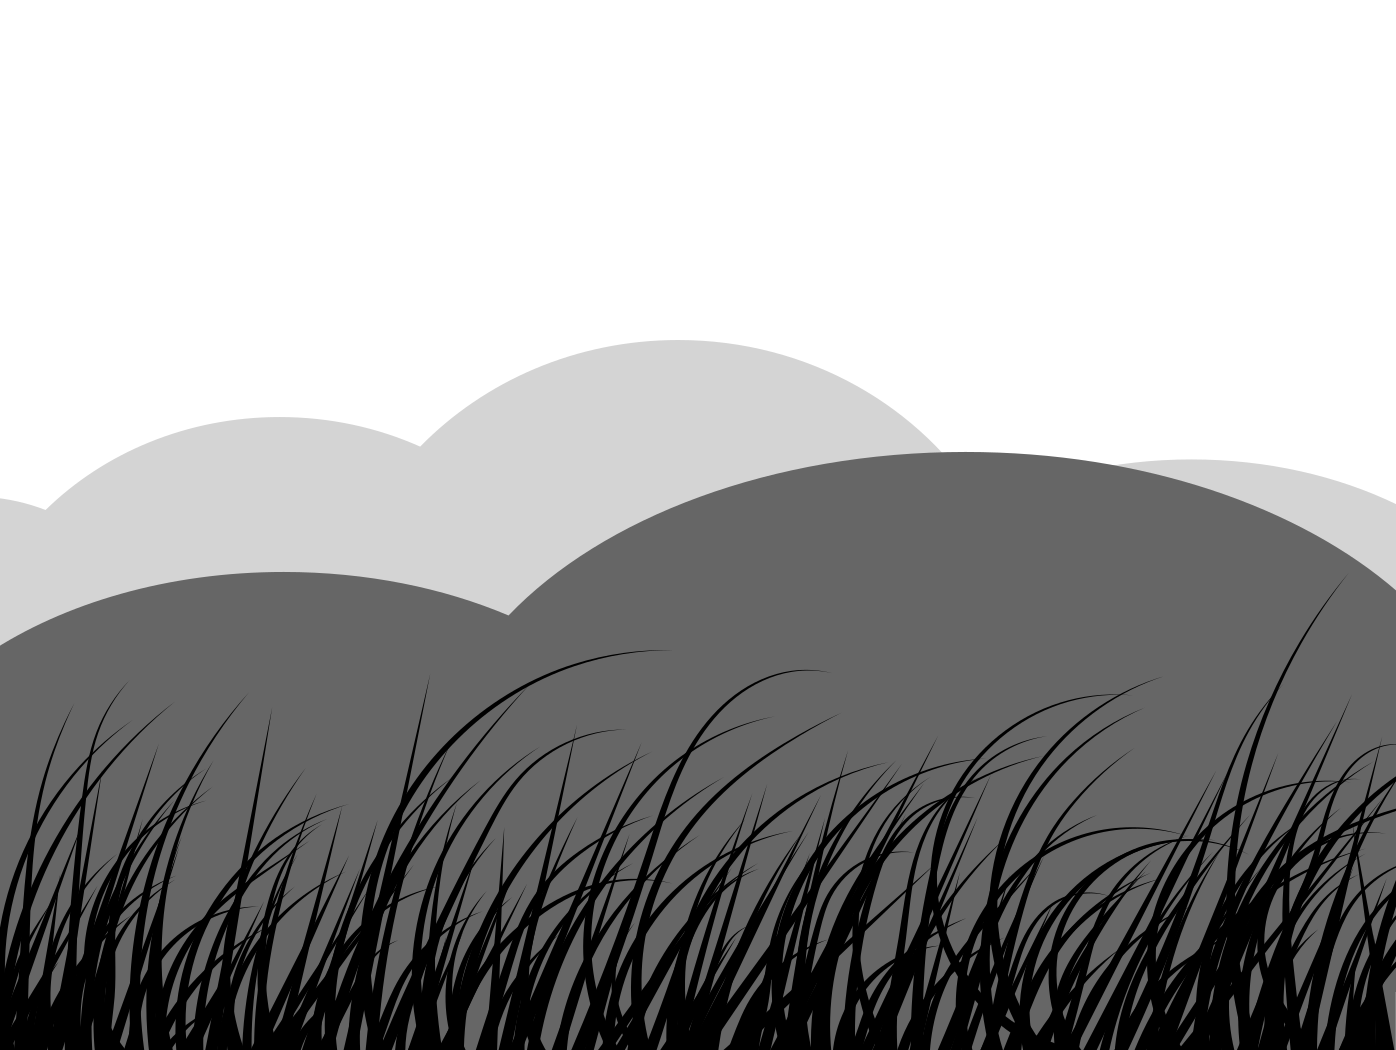
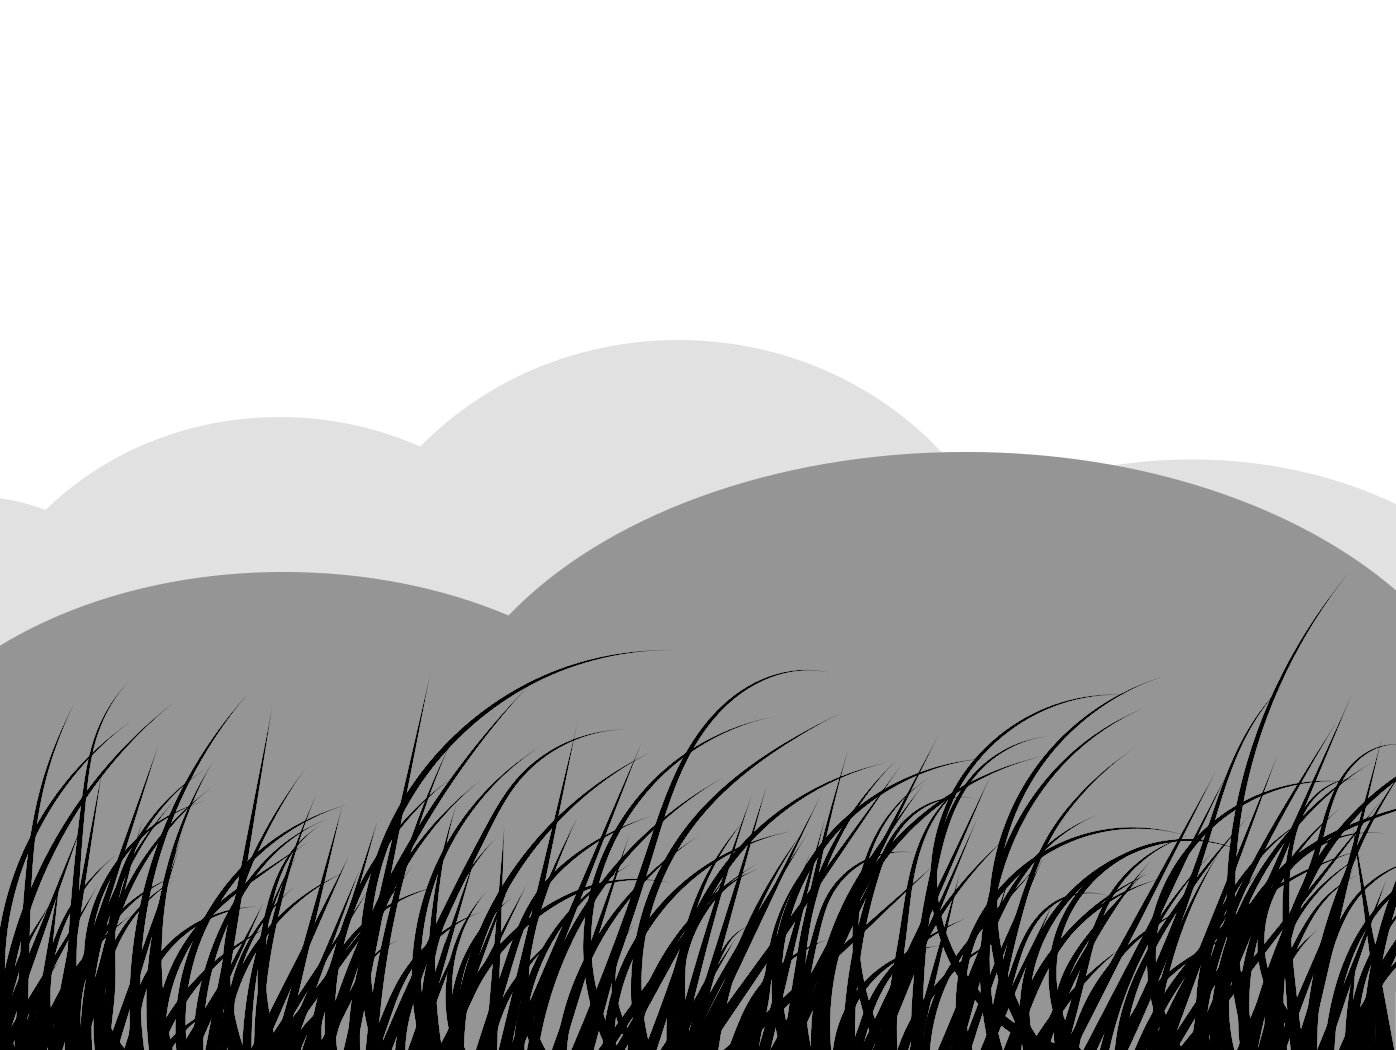
readded 3D for the spring tree, fixed 'night mostly cloudy' bitmap

diff --git a/DisplayedObject/Fonds/Printemps/Tree.cs b/DisplayedObject/Fonds/Printemps/Tree.cs
@@ -11,7 +11,7 @@ namespace ClockScreenSaverGL.Fonds.Printemps
     {
         public bool DoneGrowing = false;
 
-        Vector2 Position;
+        Vector3 Position;
 
         readonly int NB_CIBLES;
         readonly int LARGEUR_ARBRE;
@@ -25,14 +25,14 @@ namespace ClockScreenSaverGL.Fonds.Printemps
         readonly static float RATIO_TAILLE_PARENT = 1.01f;
         Branch _racineArbre;
         List<Cible> _ciblesBranches;
-        Dictionary<Vector2, Branch> _branches;
+        Dictionary<Vector3, Branch> _branches;
         List<Feuille> _feuilles;
         Random r = new Random();
         float _oscillation;
 
         public Tree(float X, float Y, float Z, float LargeurTronc, int LargeurArbre, int HauteurArbre, int LongueurBranche, int DistanceMin, int DistanceMax, int NbCibles, int HauteurTronc)
         {
-            Position = new Vector2(X, Y/*, Z*/);
+            Position = new Vector3(X, Y, Z);
             LARGEUR_TRONC = LargeurTronc;
             LARGEUR_ARBRE = LargeurArbre;
             HAUTEUR_ARBRE = HauteurArbre;
@@ -59,35 +59,35 @@ namespace ClockScreenSaverGL.Fonds.Printemps
 
         private void GenereFeuilles(List<Cible> Leaves, float X, float Y, int Largeur, int Hauteur, int NbFeuilles)
         {
-            float angleX, dx, dy/*,angleZ, dz*/  ;
+            float angleX, dx, dy,angleZ, dz ;
             for (int i = 0; i < NbFeuilles; i++)
             {
                 angleX = r.Next(0, (int)(Math.PI * 400.0)) / 100.0f;
-                //angleZ = r.Next(0, (int)(Math.PI * 400.0)) / 100.0f;
+                angleZ = r.Next(0, (int)(Math.PI * 400.0)) / 100.0f;
                 dx = r.Next(0, Largeur * 10) / 10.0f;
                 dy = r.Next(0, Hauteur * 10) / 10.0f;
-                //dz = r.Next(0, Hauteur * 10) / 10.0f;
+                dz = r.Next(0, Hauteur * 10) / 10.0f;
 
-                Leaves.Add(new Cible(new Vector2(X + (float)Math.Sin(angleX) * dx,
-                                    Y + (float)Math.Cos(angleX) * dy/*,(float)Math.Sin(angleZ) * dz*/)));
+                Leaves.Add(new Cible(new Vector3(X + (float)Math.Sin(angleX) * dx,
+                                    Y + (float)Math.Cos(angleX) * dy,(float)Math.Sin(angleZ) * dz)));
             }
         }
 
         private void GenereTronc()
         {
-            _branches = new Dictionary<Vector2, Branch>();
+            _branches = new Dictionary<Vector3, Branch>();
 
-            _racineArbre = new Branch(null, Position, new Vector2(-1, 0, 0));
+            _racineArbre = new Branch(null, Position, new Vector3(-1, 0, 0));
             _racineArbre.Size = LARGEUR_TRONC;
             _branches.Add(_racineArbre.Position, _racineArbre);
 
-            Branch current = new Branch(_racineArbre, new Vector2(Position.X - LONGUEUR_BRANCHE, Position.Y, 0), new Vector2(-1, 0, 0));
+            Branch current = new Branch(_racineArbre, new Vector3(Position.X - LONGUEUR_BRANCHE, Position.Y, 0), new Vector3(-1, 0, 0));
             _branches.Add(current.Position, current);
 
             //Keep growing trunk upwards until we reach a leaf      
             while ((_racineArbre.Position - current.Position).Length() < HAUTEUR_TRONC)
             {
-                Branch trunk = new Branch(current, new Vector2(current.Position.X - LONGUEUR_BRANCHE, current.Position.Y, 0), new Vector2(-1, 0, 0));
+                Branch trunk = new Branch(current, new Vector3(current.Position.X - LONGUEUR_BRANCHE, current.Position.Y, 0), new Vector3(-1, 0, 0));
                 _branches.Add(trunk.Position, trunk);
                 current = trunk;
             }
@@ -107,7 +107,7 @@ namespace ClockScreenSaverGL.Fonds.Printemps
                 bool leafRemoved = false;
 
                 _ciblesBranches[i].ClosestBranch = null;
-                Vector2 direction = Vector2.Zero;
+                Vector3 direction = Vector3.Zero;
 
                 //Find the nearest branch for this leaf
                 foreach (Branch b in _branches.Values)
@@ -139,7 +139,7 @@ namespace ClockScreenSaverGL.Fonds.Printemps
                     //Set the grow parameters on all the closest branches that are in range
                     if (_ciblesBranches[i].ClosestBranch != null)
                     {
-                        Vector2 dir = _ciblesBranches[i].Position - _ciblesBranches[i].ClosestBranch.Position;
+                        Vector3 dir = _ciblesBranches[i].Position - _ciblesBranches[i].ClosestBranch.Position;
                         dir.Normalize();
                         _ciblesBranches[i].ClosestBranch.GrowDirection += dir;       //add to grow direction of branch
                         _ciblesBranches[i].ClosestBranch.GrowCount++;
@@ -147,7 +147,7 @@ namespace ClockScreenSaverGL.Fonds.Printemps
 
                     _ciblesBranches[i].Position.X += r.Next(-1, 2);
                     _ciblesBranches[i].Position.Y += r.Next(-1, 2);
-                    //_ciblesBranches[i].Position.Z += r.Next(-1, 2);
+                    _ciblesBranches[i].Position.Z += r.Next(-1, 2);
                     DoneGrowing = false;
                 }
 
@@ -161,7 +161,7 @@ namespace ClockScreenSaverGL.Fonds.Printemps
 
                 if (b.GrowCount > 0)    //if at least one leaf is affecting the branch
                 {
-                    Vector2 avgDirection = b.GrowDirection / b.GrowCount;
+                    Vector3 avgDirection = b.GrowDirection / b.GrowCount;
                     avgDirection.Normalize();
 
                     Branch newBranch = new Branch(b, b.Position + avgDirection * LONGUEUR_BRANCHE, avgDirection);

diff --git a/DisplayedObject/Fonds/Printemps/Vector2.cs b/DisplayedObject/Fonds/Printemps/Vector2.cs
@@ -5,17 +5,17 @@ using System.Text;
 
 namespace ClockScreenSaverGL.Fonds.Printemps
 {
-    public class Vector2
+    public class Vector3
     {
-        public static readonly Vector2 Zero = new Vector2(0, 0/*,0*/);
+        public static readonly Vector3 Zero = new Vector3(0, 0 ,0);
         public float X;
         public float Y;
-        //public float Z;
-        public Vector2(float x, float y, float z = 0 )
+        public float Z;
+        public Vector3(float x, float y, float z = 0 )
         {
             this.X = x;
             this.Y = y;
-            //this.Z = z;
+            this.Z = z;
         }
 
         public void Normalize()
@@ -23,42 +23,42 @@ namespace ClockScreenSaverGL.Fonds.Printemps
             float l = Length();
             X /= l;
             Y /= l;
-            //Z /= l;
+            Z /= l;
         }
         
-        public static Vector2 operator +(Vector2 v1, Vector2 v2)
+        public static Vector3 operator +(Vector3 v1, Vector3 v2)
         {
-            return new Vector2(v1.X + v2.X, v1.Y + v2.Y/*, v1.Z + v2.Z*/);
+            return new Vector3(v1.X + v2.X, v1.Y + v2.Y, v1.Z + v2.Z);
         }
 
-        public static Vector2 operator -(Vector2 v1, Vector2 v2)
+        public static Vector3 operator -(Vector3 v1, Vector3 v2)
         {
-            return new Vector2(v1.X - v2.X, v1.Y - v2.Y/*, v1.Z +- v2.Z*/);
+            return new Vector3(v1.X - v2.X, v1.Y - v2.Y, v1.Z +- v2.Z);
         }
 
-        public static Vector2 operator *(Vector2 v1, float m)
+        public static Vector3 operator *(Vector3 v1, float m)
         {
-            return new Vector2(v1.X * m, v1.Y * m/*, v1.Z * m*/);
+            return new Vector3(v1.X * m, v1.Y * m, v1.Z * m);
         }
 
-        public static float operator *(Vector2 v1, Vector2 v2)
+        public static float operator *(Vector3 v1, Vector3 v2)
         {
-            return v1.X * v2.X + v1.Y * v2.Y/* + v1.Z * v2.Z*/;
+            return v1.X * v2.X + v1.Y * v2.Y + v1.Z * v2.Z;
         }
 
-        public static Vector2 operator /(Vector2 v1, float m)
+        public static Vector3 operator /(Vector3 v1, float m)
         {
-            return new Vector2(v1.X / m, v1.Y / m/*, v1.Z / m*/);
+            return new Vector3(v1.X / m, v1.Y / m, v1.Z / m);
         }
         
-        public static float Distance(Vector2 v1, Vector2 v2)
+        public static float Distance(Vector3 v1, Vector3 v2)
         {
-            return (float)Math.Sqrt(Math.Pow(v1.X - v2.X, 2) + Math.Pow(v1.Y - v2.Y, 2)/* + Math.Pow(v1.Z - v2.Z, 2)*/);
+            return (float)Math.Sqrt(Math.Pow(v1.X - v2.X, 2) + Math.Pow(v1.Y - v2.Y, 2* + Math.Pow(v1.Z - v2.Z, 2)));
         }
 
         public float Length()
         {
-            return (float)Math.Sqrt(X * X + Y * Y /*+ Z*Z*/);
+            return (float)Math.Sqrt(X * X + Y * Y + Z*Z);
         }
         
         public PointF Point()

diff --git a/DisplayedObject/Fonds/Printemps/Printemps.cs b/DisplayedObject/Fonds/Printemps/Printemps.cs
@@ -15,15 +15,15 @@ namespace ClockScreenSaverGL.Fonds.Printemps
     {
         #region PARAMETRES
         const String CAT = "Tree.GDI" ;
-        public static readonly int DELAI_RECOMMENCE = 20000;//conf.getParametre(CAT, "Delai nouvel arbre", 10) * 1000;
+        public static readonly int DELAI_RECOMMENCE = conf.getParametre(CAT, "Delai nouvel arbre", 10) * 1000;
         public static readonly float LARGEUR_TRONC = conf.getParametre(CAT, "Largeur Tronc", 10);
-        public static readonly int HAUTEUR_TRONC = 200;//conf.getParametre(CAT, "Hauteur Tronc", 200);
-        public static readonly int LARGEUR_ARBRE = 1300;//conf.getParametre(CAT, "Largeur Arbre", 1200);
-        public static readonly int HAUTEUR_ARBRE = 500;//conf.getParametre(CAT, "Hauteur Arbre", 400);
-        public static readonly int LONGUEUR_BRANCHE = 7;//conf.getParametre(CAT, "Longueur Branche", 5);
-        public static readonly int DISTANCE_MIN= conf.getParametre(CAT, "Distance Min", 5);
-        public static readonly int DISTANCE_MAX = 300;//conf.getParametre(CAT, "Distance Max", 100);
-        public static readonly int NB_CIBLES = 100;//conf.getParametre(CAT, "Nb Cibles", 1000);
+        public static readonly int HAUTEUR_TRONC = conf.getParametre(CAT, "Hauteur Tronc", 200);
+        public static readonly int LARGEUR_ARBRE = conf.getParametre(CAT, "Largeur Arbre", 1200);
+        public static readonly int HAUTEUR_ARBRE = conf.getParametre(CAT, "Hauteur Arbre", 400);
+        public static readonly int LONGUEUR_BRANCHE = conf.getParametre(CAT, "Longueur Branche", 7);
+        public static readonly int DISTANCE_MIN= 7;//conf.getParametre(CAT, "Distance Min", 5);
+        public static readonly int DISTANCE_MAX = 200;//conf.getParametre(CAT, "Distance Max", 100);
+        public static readonly int NB_CIBLES = conf.getParametre(CAT, "Nb Cibles", 200);
         float _oscillation = 0;
         #endregion
         DateTime _finCroissance;

diff --git a/MainForm.cs b/MainForm.cs
@@ -154,8 +154,6 @@ namespace ClockScreenSaverGL
         /// <returns></returns>
         private Fonds.Fond createBackgroundObject(int Type, bool initial)
         {
-            //return new Fonds.Ete.Ete(SystemInformation.VirtualScreen.Width, SystemInformation.VirtualScreen.Height); 
-
             OpenGL gl = openGLControl.OpenGL;
             if (_fondDeSaison && initial)
             {
@@ -172,7 +170,8 @@ namespace ClockScreenSaverGL
 
                     case SAISON.PRINTEMPS:
                         return new Fonds.Printemps.Printemps(SystemInformation.VirtualScreen.Width, SystemInformation.VirtualScreen.Height);
-                    case SAISON.ETE: break; // TODO
+                    case SAISON.ETE: 
+                        return new Fonds.Ete.Ete(SystemInformation.VirtualScreen.Width, SystemInformation.VirtualScreen.Height); 
                     case SAISON.AUTOMNE: break; // TODO
                 }
             }

diff --git a/DisplayedObject/Fonds/Printemps/Branch.cs b/DisplayedObject/Fonds/Printemps/Branch.cs
@@ -7,13 +7,13 @@ namespace ClockScreenSaverGL.Fonds.Printemps
         readonly public static float LARGEUR_INITIALE = 2 ;
         
         public Branch Parent { get; private set; }
-        public Vector2 GrowDirection { get; set; }
-        public Vector2 OriginalGrowDirection { get; set; }
+        public Vector3 GrowDirection { get; set; }
+        public Vector3 OriginalGrowDirection { get; set; }
         public int GrowCount { get; set; }
-        public Vector2 Position { get; private set; }
+        public Vector3 Position { get; private set; }
         public float Size { get; set; }
 
-        public Branch(Branch parent, Vector2 position, Vector2 growDirection)
+        public Branch(Branch parent, Vector3 position, Vector3 growDirection)
         {
             Parent = parent;
             Position = position;

diff --git a/DisplayedObject/Fonds/Printemps/Feuille.cs b/DisplayedObject/Fonds/Printemps/Feuille.cs
@@ -10,11 +10,11 @@ namespace ClockScreenSaverGL.Fonds.Printemps
         const int NB_TYPES_FEUILLES = 3;
         static readonly int TYPE_FEUILLES = DisplayedObject.r.Next(0, 2);
 
-        public Vector2 Position { get; set; }
+        public Vector3 Position { get; set; }
         public float _taille;
         private Bitmap _feuille;
         
-        public Feuille(Vector2 position)
+        public Feuille(Vector3 position)
         {
             Position = position;
             _taille = 20;

diff --git a/DisplayedObject/Fonds/Printemps/CIble.cs b/DisplayedObject/Fonds/Printemps/CIble.cs
@@ -7,10 +7,10 @@ namespace ClockScreenSaverGL.Fonds.Printemps
 {
     public class Cible
     {
-        public Vector2 Position;
+        public Vector3 Position;
         public Branch ClosestBranch;
 
-        public Cible(Vector2 position)
+        public Cible(Vector3 position)
         {
             Position = position;
         }
